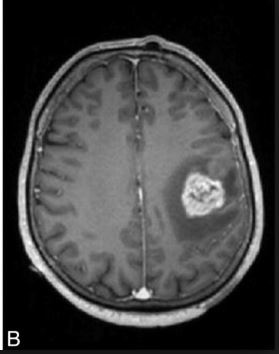
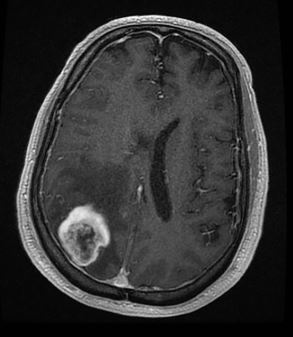
zoom

diff --git a/client/src/App.js b/client/src/App.js
@@ -1,6 +1,7 @@
 import React, {useState, useEffect, useRef} from 'react';
 import axios from 'axios'
 import filteredImage from './image/changed.jpg'
+import zoomImage from './image/zoom.jpg'
 //useRef
 
 
@@ -11,12 +12,17 @@ function App() {
     let refGamma = useRef(0)
     let refAlpha = useRef(0)
     let refChoice = useRef('')
+    let reffX = useRef(0)
+    let reffY = useRef(0)
+    let refeX = useRef(0)
+    let refeY = useRef(0)
 
 
     let [img, setImg] = useState(null);
     let [err, setError] = useState(true);
     let [errf, setErrorf] = useState(true);
     let [errc, setErrorc] = useState(true);
+    let [errz, setErrorz] = useState(true);
 
     let [original, setImageStatus] = useState(true);
 
@@ -61,6 +67,20 @@ function App() {
             })
     }
 
+    function zoom(){
+        setErrorz(false);
+        let file = ''
+        if (original) file='original.jpg'
+        else file = 'changed.jpg'
+        axios.post('http://127.0.0.1:5000/zoom/'+file+'/'+reffX.current.value+'/'+reffY.current.value+'/'+refeX.current.value+'/'+refeY.current.value)
+            .then(resp=>{
+                console.log(resp.data)
+            })
+            .catch(err =>{
+                setErrorz(true)
+            })
+    }
+
 
     return (
         <div>
@@ -94,6 +114,19 @@ function App() {
 
             {original && (<p>origine</p>)}
             {!original && (<p>filtrée</p>)}
+
+
+            <div>
+                <textarea defaultValue={0} ref={reffX} name={'firstx'}/>
+                <textarea defaultValue={0} ref={reffY} name={'firsty'}/>
+                <textarea defaultValue={100} ref={refeX} name={'endx'}/>
+                <textarea defaultValue={100} ref={refeY} name={'endy'}/>
+                <button onClick={e => zoom()} >Zoom</button>
+            </div>
+            { !errz && (
+                <img src={zoomImage} />
+            )}
+
         </div>
 
 

diff --git a/flask-server/server.py b/flask-server/server.py
@@ -80,6 +80,14 @@ def contrastImage(gamma: float, alpha: float, choice: str):
 
     return "contrast changed successfully"
 
+@app.route('/zoom/<string:image>/<int:firstX>/<int:firstY>/<int:endX>/<int:endY>', methods=['POST'])
+@cross_origin(supports_credentials=True, origins="*")
+def zoom_mri(image:str, firstX:int, firstY:int, endX:int, endY:int): # permet de retourner l'image zommé entre 2 points ⎡ ⎦
+    img = cv.imread('../client/src/image/'+image)#, cv.IMREAD_GRAYSCALE)
+    cropped_img = img[firstX:endX, firstY:endY] # [ | , -- ]
+    cv.imwrite('../client/src/image/zoom.jpg', cropped_img)
+    return "zoom changed successfully"
+
 
 if __name__ == "__main__":
     app.run(debug=True)

diff --git a/source/test.py b/source/test.py
@@ -37,4 +37,11 @@ print(base64_encoded)
 #print('\n\n', encoded_string)
 #print('\n\n', encoded_string.decode('utf-8'))
 
+def zoom_mri(image, firstX, firstY, endX, endY): # permet de retourner l'image zommé entre 2 points ⎡ ⎦
+    img = cv.imread('../client/src/image/'+image, cv.IMREAD_GRAYSCALE)
+    cropped_img = img[firstX:endX, firstY:endY] # [ | , -- ]
+    cv.imwrite('../client/src/image/zoom.jpg', cropped_img)
+
+zoom_mri('original.jpg', 0,0,100,100)
+
 
